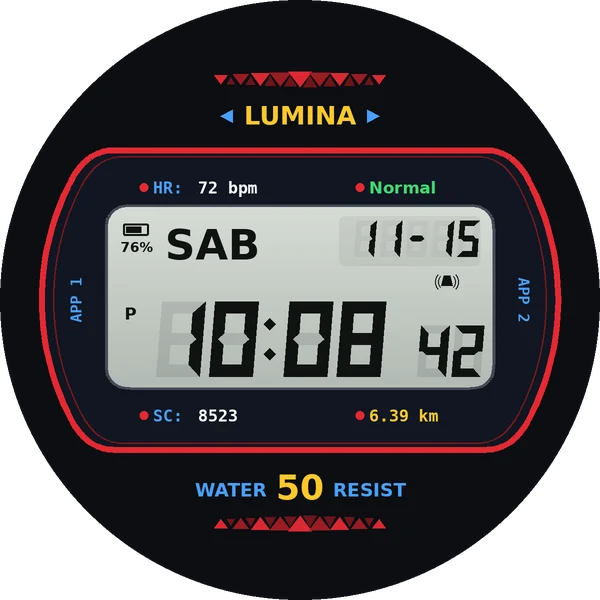
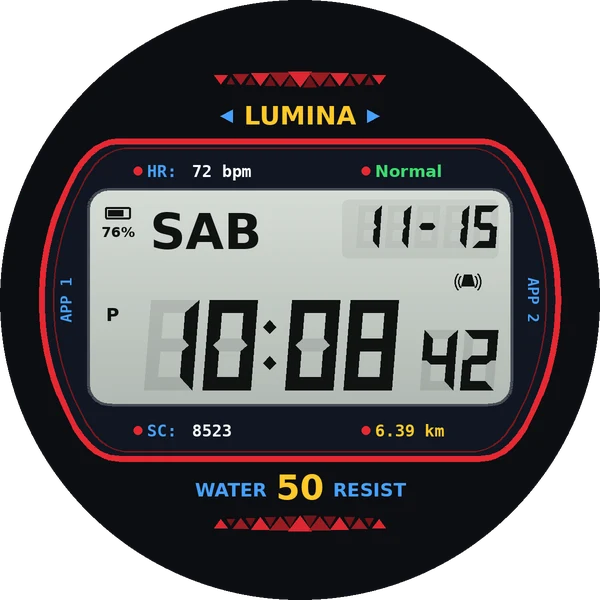
Esferas sin pedir actualizar la app; Lumina con pantalla más grande y margen
- El APK de la app (teléfono y reloj) y su número de versión solo se publican cuando
  cambia la app; si solo cambian esferas, se suben las esferas y la app no pide actualizar.
- Lumina: la pantalla ocupa casi todo el panel con margen parejo y la hora es más grande.

Claude-Session: https://claude.ai/code/session_01RTdv2VrACuR4VFWJLA57hx

Changed region(s): [[0.09, 0.21, 0.9, 0.78]]

diff --git a/android/esferas-de-reloj/lumina/src/main/java/cl/carlospnauto/esfera/FaceService.kt b/android/esferas-de-reloj/lumina/src/main/java/cl/carlospnauto/esfera/FaceService.kt
@@ -201,7 +201,7 @@ class LuminaRenderer(
         val r = min(b.width(), b.height()) / 2f
         val fx = (x - b.exactCenterX()) / r
         val fy = (y - b.exactCenterY()) / r
-        return fx in -0.64f..0.64f && fy in -0.31f..0.29f
+        return fx in -0.70f..0.70f && fy in -0.365f..0.345f
     }
 
     private fun a(c: Int, alpha: Int) = Color.argb(alpha, Color.red(c), Color.green(c), Color.blue(c))
@@ -261,8 +261,8 @@ class LuminaRenderer(
         fun X(v: Float) = cx + v * rr
         fun Y(v: Float) = cy + v * rr
         val side = 0.86f
-        val edge = 0.50f
-        val sy = 0.40f
+        val edge = 0.53f
+        val sy = 0.42f
         val ang = Math.toDegrees(kotlin.math.asin((sy / side).toDouble())).toFloat()
         val sx = kotlin.math.sqrt(side * side - sy * sy)
         // Esquina: la recta y la tangente del círculo se cruzan en (cxk, edge)
@@ -333,7 +333,7 @@ class LuminaRenderer(
         val th = THEMES[Choices.index(context, THEME)].second
         canvas.drawColor(Color.BLACK)
 
-        val lcd = RectF(X(-0.64f), Y(-0.31f), X(0.64f), Y(0.29f))
+        val lcd = RectF(X(-0.70f), Y(-0.365f), X(0.70f), Y(0.345f))
         val ink = if (simple) Color.rgb(170, 170, 170) else sc.ink
         val ghost = if (simple) 0 else a(sc.ink, if (sc.dark) 30 else 26)
 
@@ -371,7 +371,7 @@ class LuminaRenderer(
             canvas.drawPath(path, stroke)
 
             // APP 1 y APP 2 (accesos) en los costados
-            for ((sx, label, deg) in listOf(Triple(-0.745f, "APP 1", -90f), Triple(0.745f, "APP 2", 90f))) {
+            for ((sx, label, deg) in listOf(Triple(-0.778f, "APP 1", -90f), Triple(0.778f, "APP 2", 90f))) {
                 canvas.save()
                 canvas.rotate(deg, X(sx), cy)
                 write(canvas, label, X(sx), cy + r * 0.018f, r * 0.05f, th.label, mono, Paint.Align.CENTER)
@@ -384,9 +384,9 @@ class LuminaRenderer(
             val hr = hrTxt?.toIntOrNull() ?: 0
             val ls = r * 0.056f
             fill.color = th.frame
-            canvas.drawCircle(X(-0.52f), Y(-0.375f), r * 0.014f, fill)
-            write(canvas, "HR:", X(-0.49f), Y(-0.355f), ls, th.label, mono, Paint.Align.LEFT)
-            write(canvas, "${hrTxt ?: "--"} bpm", X(-0.34f), Y(-0.355f), ls, th.value, mono, Paint.Align.LEFT)
+            canvas.drawCircle(X(-0.54f), Y(-0.43f), r * 0.014f, fill)
+            write(canvas, "HR:", X(-0.51f), Y(-0.41f), ls, th.label, mono, Paint.Align.LEFT)
+            write(canvas, "${hrTxt ?: "--"} bpm", X(-0.36f), Y(-0.41f), ls, th.value, mono, Paint.Align.LEFT)
             val status = when {
                 hr <= 0 -> "--"
                 hr < 60 -> "Bajo"
@@ -394,19 +394,19 @@ class LuminaRenderer(
                 else -> "Alto"
             }
             val stColor = when (status) { "Normal" -> Color.rgb(60, 220, 110); "Bajo" -> Color.rgb(90, 180, 255); "Alto" -> Color.rgb(255, 90, 80); else -> Color.GRAY }
-            canvas.drawCircle(X(0.20f), Y(-0.375f), r * 0.014f, fill)
-            write(canvas, status, X(0.23f), Y(-0.355f), ls, stColor, bold, Paint.Align.LEFT)
+            canvas.drawCircle(X(0.22f), Y(-0.43f), r * 0.014f, fill)
+            write(canvas, status, X(0.25f), Y(-0.41f), ls, stColor, bold, Paint.Align.LEFT)
 
             // Pasos y distancia
             val stepsTxt = complications.textOf(STEPS, context.resources)?.filter { it.isDigit() } ?: ""
             val steps = stepsTxt.toLongOrNull() ?: 0L
             val km = steps * 0.00075
             val dist = if (Choices.value(context, DISTANCE) == 1) "%.2f mi".format(loc, km * 0.621371) else "%.2f km".format(loc, km)
-            canvas.drawCircle(X(-0.52f), Y(0.385f), r * 0.014f, fill)
-            write(canvas, "SC:", X(-0.49f), Y(0.405f), ls, th.label, mono, Paint.Align.LEFT)
-            write(canvas, stepsTxt.ifEmpty { "--" }, X(-0.34f), Y(0.405f), ls, th.value, mono, Paint.Align.LEFT)
-            canvas.drawCircle(X(0.20f), Y(0.385f), r * 0.014f, fill)
-            write(canvas, dist, X(0.23f), Y(0.405f), ls, th.brand, mono, Paint.Align.LEFT)
+            canvas.drawCircle(X(-0.54f), Y(0.435f), r * 0.014f, fill)
+            write(canvas, "SC:", X(-0.51f), Y(0.455f), ls, th.label, mono, Paint.Align.LEFT)
+            write(canvas, stepsTxt.ifEmpty { "--" }, X(-0.36f), Y(0.455f), ls, th.value, mono, Paint.Align.LEFT)
+            canvas.drawCircle(X(0.22f), Y(0.435f), r * 0.014f, fill)
+            write(canvas, dist, X(0.25f), Y(0.455f), ls, th.brand, mono, Paint.Align.LEFT)
 
             // WATER 50 RESIST y triángulos abajo (rectos)
             val ws = r * 0.062f
@@ -439,52 +439,52 @@ class LuminaRenderer(
         // Batería: pila chica con su nivel y el porcentaje
         val pct = battery?.getIntProperty(BatteryManager.BATTERY_PROPERTY_CAPACITY) ?: -1
         if (!simple) {
-            val bx = X(-0.59f)
-            val by = Y(-0.255f)
+            val bx = X(-0.65f)
+            val by = Y(-0.31f)
             stroke.color = ink
             stroke.strokeWidth = r * 0.008f
             canvas.drawRoundRect(RectF(bx, by, bx + r * 0.085f, by + r * 0.04f), r * 0.006f, r * 0.006f, stroke)
             fill.color = ink
             canvas.drawRect(bx + r * 0.085f, by + r * 0.012f, bx + r * 0.095f, by + r * 0.028f, fill)
             if (pct >= 0) canvas.drawRect(bx + r * 0.01f, by + r * 0.01f, bx + r * 0.01f + r * 0.065f * pct / 100f, by + r * 0.03f, fill)
-            write(canvas, if (pct >= 0) "$pct%" else "--", bx + r * 0.045f, Y(-0.16f), r * 0.045f, ink, bold, Paint.Align.CENTER)
+            write(canvas, if (pct >= 0) "$pct%" else "--", bx + r * 0.045f, Y(-0.21f), r * 0.048f, ink, bold, Paint.Align.CENTER)
         }
 
         // Día de la semana grande
         val dow = t.dayOfWeek.getDisplayName(TextStyle.SHORT, loc).replace(".", "").take(3).uppercase(loc)
-        write(canvas, dow, X(-0.45f), Y(-0.135f), r * 0.14f, ink, black, Paint.Align.LEFT)
+        write(canvas, dow, X(-0.50f), Y(-0.17f), r * 0.165f, ink, black, Paint.Align.LEFT)
 
         // Fecha (mes-día) en su cajita, con «8» apagados
         if (!simple) {
             fill.color = a(sc.ink, if (sc.dark) 22 else 16)
-            canvas.drawRoundRect(RectF(X(0.13f), Y(-0.28f), X(0.60f), Y(-0.115f)), r * 0.02f, r * 0.02f, fill)
+            canvas.drawRoundRect(RectF(X(0.14f), Y(-0.335f), X(0.66f), Y(-0.14f)), r * 0.02f, r * 0.02f, fill)
         }
-        Lcd.row(canvas, "${t.monthValue}-${t.dayOfMonth}", X(0.59f), Y(-0.265f), r * 0.066f, r * 0.12f, r * 0.02f, 5, ink, ghost)
+        Lcd.row(canvas, "${t.monthValue}-${t.dayOfMonth}", X(0.65f), Y(-0.315f), r * 0.075f, r * 0.14f, r * 0.022f, 5, ink, ghost)
 
         // Alarma puesta: campana con ondas
-        if (!simple) bell(canvas, X(0.49f), Y(-0.06f), r * 0.035f, if (Indicators.alarm(context)) ink else ghost)
+        if (!simple) bell(canvas, X(0.56f), Y(-0.06f), r * 0.04f, if (Indicators.alarm(context)) ink else ghost)
 
         // Hora grande, segundos e indicador P / 24
         val is24 = DateFormat.is24HourFormat(context)
         val h = if (is24) "%02d".format(t.hour) else (if (t.hour % 12 == 0) 12 else t.hour % 12).toString().padStart(2, ' ')
         val m = "%02d".format(t.minute)
-        val dw = r * 0.145f
-        val dh = r * 0.25f
-        val top = Y(0.005f)
-        var x = X(-0.48f)
+        val dw = r * 0.16f
+        val dh = r * 0.30f
+        val top = Y(0.0f)
+        var x = X(-0.52f)
         Lcd.digit(canvas, h[0], x, top, dw, dh, ink, ghost); x += dw * 1.22f
         Lcd.digit(canvas, h[1], x, top, dw, dh, ink, ghost); x += dw * 1.22f
-        Lcd.colon(canvas, x + dw * 0.18f, top, dh, r * 0.02f, ink); x += dw * 0.5f
+        Lcd.colon(canvas, x + dw * 0.18f, top, dh, r * 0.022f, ink); x += dw * 0.5f
         Lcd.digit(canvas, m[0], x, top, dw, dh, ink, ghost); x += dw * 1.22f
         Lcd.digit(canvas, m[1], x, top, dw, dh, ink, ghost)
         if (!ambient && Choices.value(context, SECONDS) == 0) {
             val s = "%02d".format(t.second)
-            val sw = r * 0.095f
-            val sh = r * 0.17f
-            Lcd.digit(canvas, s[0], X(0.39f), top + dh - sh, sw, sh, ink, ghost)
-            Lcd.digit(canvas, s[1], X(0.39f) + sw * 1.22f, top + dh - sh, sw, sh, ink, ghost)
+            val sw = r * 0.11f
+            val sh = r * 0.20f
+            Lcd.digit(canvas, s[0], X(0.40f), top + dh - sh, sw, sh, ink, ghost)
+            Lcd.digit(canvas, s[1], X(0.40f) + sw * 1.22f, top + dh - sh, sw, sh, ink, ghost)
         }
-        write(canvas, if (is24) "24" else "P", X(-0.565f), top + r * 0.06f, r * 0.055f, if (is24 || t.hour >= 12) ink else ghost, bold, Paint.Align.CENTER)
+        write(canvas, if (is24) "24" else "P", X(-0.625f), top + r * 0.07f, r * 0.06f, if (is24 || t.hour >= 12) ink else ghost, bold, Paint.Align.CENTER)
 
         Brand.draw(canvas, cx, Y(0.90f), r * 0.028f, Color.rgb(110, 110, 115))
         // Siempre activa: la esfera completa, más tenue
